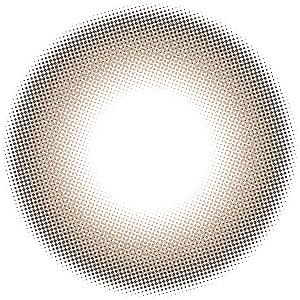
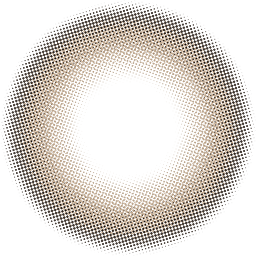
feat(demo): 렌즈 스케일 캐싱 및 텍스처 최적화
- OverlayView에 스케일된 비트맵 캐싱 구현 (꿀렁거림 방지)
  - 좌/우 눈 별도 캐시로 매 프레임 스케일링 제거
  - 4픽셀 임계값 초과 시에만 새 비트맵 생성
  - 텍스처 변경 및 뷰 분리 시 메모리 해제
- 렌즈 텍스처 이미지 최적화 (Lanczos 리샘플링)
- 사용하지 않는 렌즈 텍스처 정리

Changed region(s): [[0.0, 0.0312, 1.0, 1.0], [0.4375, 0.1875, 0.4688, 0.2188]]

diff --git a/android/demo-app/src/main/java/com/irislenssdk/demo/camera/OverlayView.kt b/android/demo-app/src/main/java/com/irislenssdk/demo/camera/OverlayView.kt
@@ -74,6 +74,10 @@ class OverlayView @JvmOverloads constructor(
         // 이 값 이하의 radius 변화는 노이즈로 간주하여 무시
         private const val RADIUS_CHANGE_THRESHOLD = 0.5f
 
+        // 스케일된 렌즈 비트맵 캐시 무효화 임계값 (픽셀 단위)
+        // 이 값 이상 크기가 변할 때만 새 비트맵 생성 (꿀렁거림 방지)
+        private const val LENS_CACHE_THRESHOLD = 4
+
         // 최소 렌더링 신뢰도 임계값 (False Positive 방지)
         // 이 값 미만의 신뢰도를 가진 검출 결과는 렌더링하지 않음
         // 허공/천장 감지 문제 해결을 위해 추가
@@ -140,6 +144,13 @@ class OverlayView @JvmOverloads constructor(
     private val leftEyePath = Path()
     private val rightEyePath = Path()
     private var eyeClippingEnabled: Boolean = true  // 눈 영역 클리핑 활성화 여부
+
+    // === 스케일된 렌즈 비트맵 캐시 (꿀렁거림 방지) ===
+    // 매 프레임 새로 스케일링하지 않고 캐시된 비트맵 재사용
+    private var cachedLeftLensBitmap: Bitmap? = null
+    private var cachedRightLensBitmap: Bitmap? = null
+    private var cachedLeftLensSize: Int = 0
+    private var cachedRightLensSize: Int = 0
 
     // Face Mesh 표시 모드
     var showFaceMesh: Boolean = false
@@ -284,9 +295,20 @@ class OverlayView @JvmOverloads constructor(
 
     /**
      * 렌즈 텍스처 설정
+     *
+     * 텍스처 변경 시 캐시된 스케일 비트맵 무효화
      */
     fun setLensTexture(texture: Bitmap?) {
         this.lensTexture = texture
+
+        // 텍스처 변경 시 캐시 무효화
+        cachedLeftLensBitmap?.recycle()
+        cachedLeftLensBitmap = null
+        cachedLeftLensSize = 0
+        cachedRightLensBitmap?.recycle()
+        cachedRightLensBitmap = null
+        cachedRightLensSize = 0
+
         invalidate()
     }
 
@@ -359,7 +381,8 @@ class OverlayView @JvmOverloads constructor(
                     filteredLeftRadius,
                     scaleFactor,
                     offsetX,
-                    offsetY
+                    offsetY,
+                    isLeft = true
                 )
                 if (canClipLeft) {
                     canvas.restore()
@@ -380,7 +403,8 @@ class OverlayView @JvmOverloads constructor(
                     filteredRightRadius,
                     scaleFactor,
                     offsetX,
-                    offsetY
+                    offsetY,
+                    isLeft = false
                 )
                 if (canClipRight) {
                     canvas.restore()
@@ -436,7 +460,53 @@ class OverlayView @JvmOverloads constructor(
     }
 
     /**
-     * 렌즈 텍스처 그리기
+     * 캐시된 스케일 비트맵 가져오기 또는 생성
+     *
+     * 스케일 변화가 임계값 미만이면 캐시된 비트맵을 재사용하여 꿀렁거림 방지.
+     * 크기가 의미있게 변할 때만 새 비트맵을 생성.
+     *
+     * @param targetSize 목표 렌즈 크기 (반지름, 픽셀)
+     * @param isLeft 왼쪽 눈 여부 (true: 왼쪽, false: 오른쪽)
+     * @return 스케일된 비트맵 (없으면 null)
+     */
+    private fun getScaledLensBitmap(targetSize: Int, isLeft: Boolean): Bitmap? {
+        val texture = lensTexture ?: return null
+
+        val cachedBitmap = if (isLeft) cachedLeftLensBitmap else cachedRightLensBitmap
+        val cachedSize = if (isLeft) cachedLeftLensSize else cachedRightLensSize
+
+        // 캐시 유효성 검사: 크기 차이가 임계값 미만이면 캐시 재사용
+        if (cachedBitmap != null && !cachedBitmap.isRecycled
+            && abs(targetSize - cachedSize) < LENS_CACHE_THRESHOLD) {
+            return cachedBitmap
+        }
+
+        // 새 스케일 비트맵 생성
+        val diameter = (targetSize * 2).coerceAtLeast(1)
+        val newBitmap = Bitmap.createScaledBitmap(texture, diameter, diameter, true)
+
+        // 캐시 업데이트
+        if (isLeft) {
+            cachedLeftLensBitmap?.recycle()  // 이전 비트맵 해제
+            cachedLeftLensBitmap = newBitmap
+            cachedLeftLensSize = targetSize
+        } else {
+            cachedRightLensBitmap?.recycle()
+            cachedRightLensBitmap = newBitmap
+            cachedRightLensSize = targetSize
+        }
+
+        Log.d(TAG, "Created new scaled lens bitmap: size=$diameter, isLeft=$isLeft")
+        return newBitmap
+    }
+
+    /**
+     * 렌즈 텍스처 그리기 (캐시된 스케일 비트맵 사용)
+     *
+     * 매 프레임 새로 스케일링하지 않고 캐시된 비트맵을 재사용하여
+     * 스케일 꿀렁거림 방지.
+     *
+     * @param isLeft 왼쪽 눈 여부 (캐시 구분용)
      */
     private fun drawLensTexture(
         canvas: Canvas,
@@ -445,10 +515,9 @@ class OverlayView @JvmOverloads constructor(
         radius: Float,
         scaleFactor: Float,
         offsetX: Float,
-        offsetY: Float
+        offsetY: Float,
+        isLeft: Boolean
     ) {
-        val texture = lensTexture ?: return
-
         // 정규화 좌표 → 화면 좌표 변환 (MediaPipe 공식 예제 방식)
         var cx = normalizedX * imageWidth * scaleFactor + offsetX
         val cy = normalizedY * imageHeight * scaleFactor + offsetY
@@ -457,36 +526,28 @@ class OverlayView @JvmOverloads constructor(
         // radius는 픽셀 단위이므로 scaleFactor로 스케일
         val rawLensSize = radius * scaleFactor * LENS_SCALE_FACTOR * lensConfig.scale
 
-        // 양자화 적용 (미세한 크기 변화로 인한 자글거림 방지)
-        // 2픽셀 단위로 반올림하여 매 프레임 동일한 스케일 유지
-        val lensSize = ((rawLensSize / LENS_SIZE_QUANTIZATION_STEP + 0.5f).toInt() * LENS_SIZE_QUANTIZATION_STEP)
+        // 정수로 양자화하여 캐시 키로 사용
+        val lensSize = rawLensSize.toInt().coerceAtLeast(1)
 
         // 미러링 (전면 카메라)
         if (isMirror) {
             cx = width - cx
         }
 
-        // 렌즈 위치 (중심점 기준)
-        lensDestRect.set(
-            cx - lensSize,
-            cy - lensSize,
-            cx + lensSize,
-            cy + lensSize
-        )
+        // 캐시된 스케일 비트맵 가져오기 (없거나 크기 변경 시 새로 생성)
+        val scaledBitmap = getScaledLensBitmap(lensSize, isLeft) ?: return
 
         // 투명도 설정
         lensPaint.alpha = (255 * lensConfig.opacity).toInt()
 
-        // 매트릭스 설정 (텍스처 → 화면)
-        lensMatrix.reset()
-        lensMatrix.setRectToRect(
-            RectF(0f, 0f, texture.width.toFloat(), texture.height.toFloat()),
-            lensDestRect,
-            Matrix.ScaleToFit.FILL
+        // 캐시된 비트맵 그리기 (Matrix 스케일링 없음 - 이미 스케일됨)
+        // 비트맵 중심을 cx, cy에 맞추기 위해 lensSize만큼 오프셋
+        canvas.drawBitmap(
+            scaledBitmap,
+            cx - lensSize,
+            cy - lensSize,
+            lensPaint
         )
-
-        // 렌즈 텍스처 그리기
-        canvas.drawBitmap(texture, lensMatrix, lensPaint)
     }
 
     /**
@@ -819,6 +880,21 @@ class OverlayView @JvmOverloads constructor(
 
             canvas.drawLine(screenX1, screenY1, screenX2, screenY2, meshLinePaint)
         }
+    }
+
+    /**
+     * 뷰가 윈도우에서 분리될 때 캐시된 비트맵 해제
+     */
+    override fun onDetachedFromWindow() {
+        super.onDetachedFromWindow()
+
+        // 캐시된 스케일 비트맵 해제
+        cachedLeftLensBitmap?.recycle()
+        cachedLeftLensBitmap = null
+        cachedRightLensBitmap?.recycle()
+        cachedRightLensBitmap = null
+
+        Log.d(TAG, "Cached lens bitmaps released")
     }
 }
 
